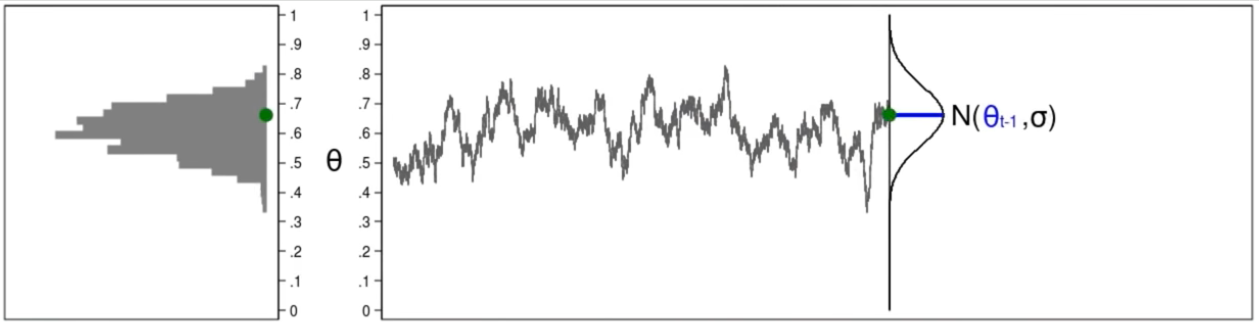
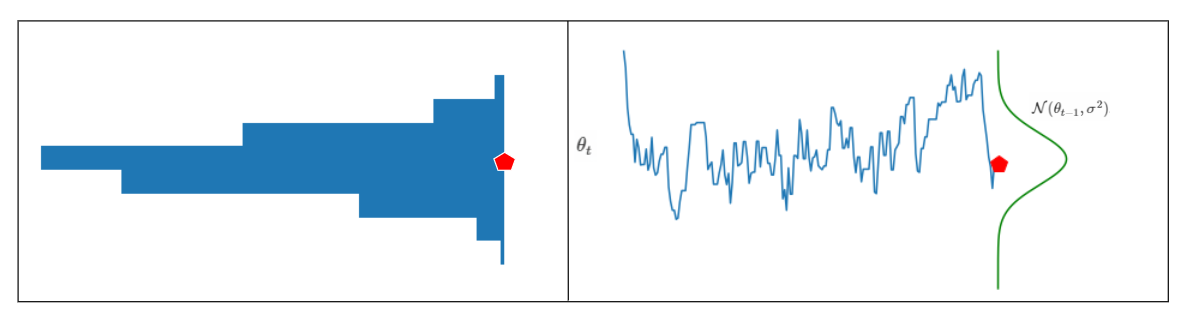
mcmc1 figur guncellendi

diff --git a/_posts/2020-03-15-markov-zincir-monte-carlo.md b/_posts/2020-03-15-markov-zincir-monte-carlo.md
@@ -162,8 +162,6 @@ Yani bir önceki rassal örneği dağılımın ortalama değeri olarak kullanara
 <img src="/images/mcmc_1.png" width="65%" height="65%">
 </p>
 
-(Not: bu figür <a href="https://www.youtube.com/watch?v=OTO1DygELpY">Stata Corp LLC'nin "Introduction to Bayesian statistics, part 2: MCMC and the Metropolis Hastings algorithm" sunumundan alınmıştır.</a>)
-
 Bu figür bize ne anlatıyor?
 
 Sağ tarafta üretilen her bir yeni örneğin kendisinden önceki örneği ortalama parametresi olarak alan bir Normal dağılımdan geldiğini görüyoruz. Soldaki histogram da üretilen rassal örneklerin histogramı. Dikkat edersen histogram sağdaki öneri dağılımına pek benzemiyor. Çünkü bu örnekler rasgele adımlarla (random-walk) üretildi. 
